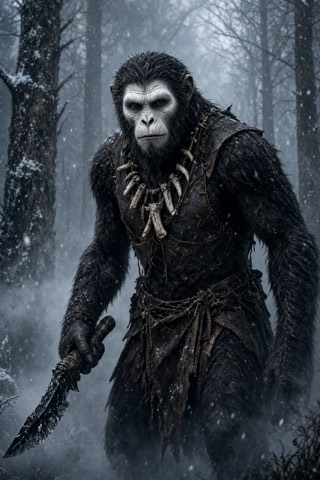
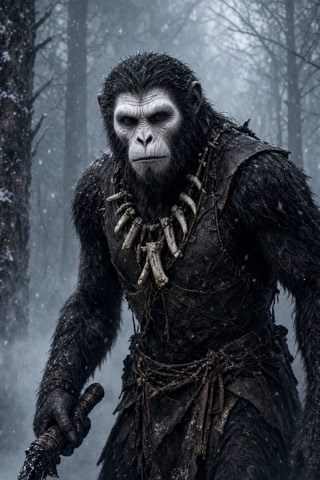
Ice Age: bigger cards and closer framing on the board
- Chapter 11 draws its cards at 1.1 of a grid cell (cardFill), slightly
  overlapping neighbours; boardMetrics measures the drawn size so cards
  never run off the board. Other chapters unchanged.
- Ice Age board/cage thumbs are a 1.25x crop on head and torso
  (build_zoom in make-card-images.sh); the hero and lightbox keep the
  full painting. Close-ups stay uncropped.

diff --git a/web/index.html b/web/index.html
@@ -838,8 +838,9 @@
       {name:'KINGDOM OF THE CANOPY',ui:'canopy',habitat:'Upper tropical rainforest canopy',shapes:['twinstacks','valley','columns','monkey'],featured:['S2_GIBBON','S2_LTMACAQUE','S2_PIGTAILED','APE_SUMATRAN','APE_SIAMANG'],foods:['F_BANANA'],scene:'canopy',vision:'OWL',ambient:'leaves',music:{competitive:'gorilla'},
         pal:{sky:['#f2c27a','#bfe3d6'],far:'#4f9a6a',mid:'#2e7048',near:'#14452a',accent:'#ffe28a'}},
       // Ice Age (2026-10-19): Paul's battle-ape set (CARD_DATA set:'iceage'), dealt in full; never a Halloween level (noSeason).
+      // cardFill: its full-body art is drawn on bigger cards (1.1 of a grid cell, overlapping neighbours a little; see boardMetrics).
       // altArt: two paintings, alternating by level (art/chapters/11 on the chapter's 1st/3rd/5th level, art/chapters/11b on the others).
-      {name:'ICE AGE BATTLE APES',ui:'iceage',set:'iceage',noSeason:true,altArt:true,habitat:'Ice Age glaciers and mammoth steppe',shapes:['valley','peaks','twinstacks'],featured:['I12','I26','I03'],region:['I01','I02','I03','I04','I05','I06','I07','I08','I09','I10','I11','I12','I13','I14','I15','I16','I17','I18','I19','I20','I21','I22','I23','I24','I25','I26','I27','I28'],scene:'iceage',vision:'OWL',ambient:'snow',music:{competitive:'competitiveDeep'},
+      {name:'ICE AGE BATTLE APES',ui:'iceage',set:'iceage',noSeason:true,altArt:true,cardFill:1.1,habitat:'Ice Age glaciers and mammoth steppe',shapes:['valley','peaks','twinstacks'],featured:['I12','I26','I03'],region:['I01','I02','I03','I04','I05','I06','I07','I08','I09','I10','I11','I12','I13','I14','I15','I16','I17','I18','I19','I20','I21','I22','I23','I24','I25','I26','I27','I28'],scene:'iceage',vision:'OWL',ambient:'snow',music:{competitive:'competitiveDeep'},
         pal:{sky:['#a9c4dc','#eef6fb'],far:'#9fb8cc',mid:'#6d8aa0',near:'#33475a',accent:'#e6f4ff'}}
     ];
     // Boss level (2026-10-14): each chapter's last level deals THE ORIGINAL TROOP (the photo set, Patriots, Caulin Plushie: DECK)
@@ -1554,15 +1555,16 @@
     // smaller than their grid cell so neighbours have a hairline gap.
     // Home backgrounds (see pickHomeBg) are preloaded with the cards so a fresh one never pops in late.
     const HOME_BGS=['A','B','E','3','4'],HOME_BG_FILES=HOME_BGS.map(k=>`art/home/bg-${k}.jpg`);
-    const CARD_RATIO=1.4,LAYER_NUDGE=7,CARD_FILL=.97;
+    const CARD_RATIO=1.4,LAYER_NUDGE=7,CARD_FILL=.97,cardFill=()=>chapterFor(state.level||1).cardFill??CARD_FILL;
     // boardSize: the board's size from its ResizeObserver (FX.renderCache), so a redraw doesn't force a layout to read it.
     let boardSize=null;
     function boardMetrics(){
       const W=FX.renderCache&&boardSize?boardSize.w:board.clientWidth,H=FX.renderCache&&boardSize?boardSize.h:board.clientHeight,tiles=state.tiles;
       let c0=Infinity,c1=-Infinity,r0=Infinity,r1=-Infinity;for(const t of tiles){c0=Math.min(c0,t.c);c1=Math.max(c1,t.c);r0=Math.min(r0,t.r);r1=Math.max(r1,t.r)}
       // The layer nudge shrinks with the cards (at most LAYER_NUDGE px), so small boards keep their stacked look without wasting room.
-      const pad=2,cc=(c0+c1)/2,rc=(r0+r1)/2,nudge=w=>Math.min(LAYER_NUDGE,w*.12),
-        box=w=>{const h=w*CARD_RATIO,n=nudge(w);let x0=Infinity,x1=-Infinity,y0=Infinity,y1=-Infinity;for(const t of tiles){const x=(t.c-cc)/2*w-t.layer*n,y=(t.r-rc)/2*h-t.layer*n;x0=Math.min(x0,x-w/2);x1=Math.max(x1,x+w/2);y0=Math.min(y0,y-h/2);y1=Math.max(y1,y+h/2)}return{x0,x1,y0,y1}};
+      // Cards drawn bigger than their cell (cardFill > 1) are measured at their drawn size, so they still never run off the board.
+      const pad=2,cc=(c0+c1)/2,rc=(r0+r1)/2,nudge=w=>Math.min(LAYER_NUDGE,w*.12),f=Math.max(1,cardFill()),
+        box=w=>{const h=w*CARD_RATIO,n=nudge(w),hw=w*f/2,hh=h*f/2;let x0=Infinity,x1=-Infinity,y0=Infinity,y1=-Infinity;for(const t of tiles){const x=(t.c-cc)/2*w-t.layer*n,y=(t.r-rc)/2*h-t.layer*n;x0=Math.min(x0,x-hw);x1=Math.max(x1,x+hw);y0=Math.min(y0,y-hh);y1=Math.max(y1,y+hh)}return{x0,x1,y0,y1}};
       let lo=4,hi=Math.max(4,Math.min(W,H/CARD_RATIO));for(let i=0;i<22;i++){const w=(lo+hi)/2,b=box(w);if(b.x1-b.x0<=W-pad*2&&b.y1-b.y0<=H-pad*2)lo=w;else hi=w}
       const w=lo,h=w*CARD_RATIO,n=nudge(w),b=box(w),ox=W/2-(b.x0+b.x1)/2,oy=H/2-(b.y0+b.y1)/2,
         m={w,h,x:t=>ox+(t.c-cc)/2*w-t.layer*n,y:t=>oy+(t.r-rc)/2*h-t.layer*n};
@@ -1573,7 +1575,7 @@
     const setIf=(node,prop,value)=>{if(!FX.renderCache||node.style[prop]!==value)node.style[prop]=value};
     function isFree(tile,activeIds){return !tile.blockers.some(id=>activeIds?activeIds.has(id):state.tiles.some(t=>t.id===id&&t.active))}
     function render(){renderGen++;syncHints();
-      const m=state.tiles.length?boardMetrics():null;if(m){const tw=`${m.w*CARD_FILL}px`,th=`${m.h*CARD_FILL}px`;if(!FX.renderCache||board.style.getPropertyValue('--tile-w')!==tw)board.style.setProperty('--tile-w',tw);if(!FX.renderCache||board.style.getPropertyValue('--tile-h')!==th)board.style.setProperty('--tile-h',th)}const activeTiles=state.tiles.filter(t=>t.active).sort((a,b)=>a.layer-b.layer),activeIds=new Set(activeTiles.map(t=>t.id));
+      const m=state.tiles.length?boardMetrics():null;if(m){const fill=cardFill(),tw=`${m.w*fill}px`,th=`${m.h*fill}px`;if(!FX.renderCache||board.style.getPropertyValue('--tile-w')!==tw)board.style.setProperty('--tile-w',tw);if(!FX.renderCache||board.style.getPropertyValue('--tile-h')!==th)board.style.setProperty('--tile-h',th)}const activeTiles=state.tiles.filter(t=>t.active).sort((a,b)=>a.layer-b.layer),activeIds=new Set(activeTiles.map(t=>t.id));
       board.querySelectorAll('.board-tile').forEach(node=>{if(!activeIds.has(node.dataset.id)){node.remove();if(node.classList.contains('lifted'))$('#dragLayer').querySelectorAll('.drag-ghost').forEach(g=>{if(!flightFrom.size)g.remove()})}});
       activeTiles.forEach(tile=>{
         const free=isFree(tile,activeIds),hasPhoto=tile.revealed&&Boolean(SYMBOL_IMAGES[tile.symbol]),renderKey=`${tile.symbol}|${tile.revealed}`;

diff --git a/web/sw.js b/web/sw.js
@@ -1,6 +1,6 @@
 // Offline cache for the installed web app. Pages load network-first so updates show up on the next visit;
 // images and audio are cached as they are used and served from cache when offline.
-const CACHE = 'monkeytrubble-v36';
+const CACHE = 'monkeytrubble-v37';
 self.addEventListener('install', () => self.skipWaiting());
 self.addEventListener('activate', e => e.waitUntil(
   caches.keys().then(keys => Promise.all(keys.filter(k => k !== CACHE).map(k => caches.delete(k)))).then(() => self.clients.claim())
